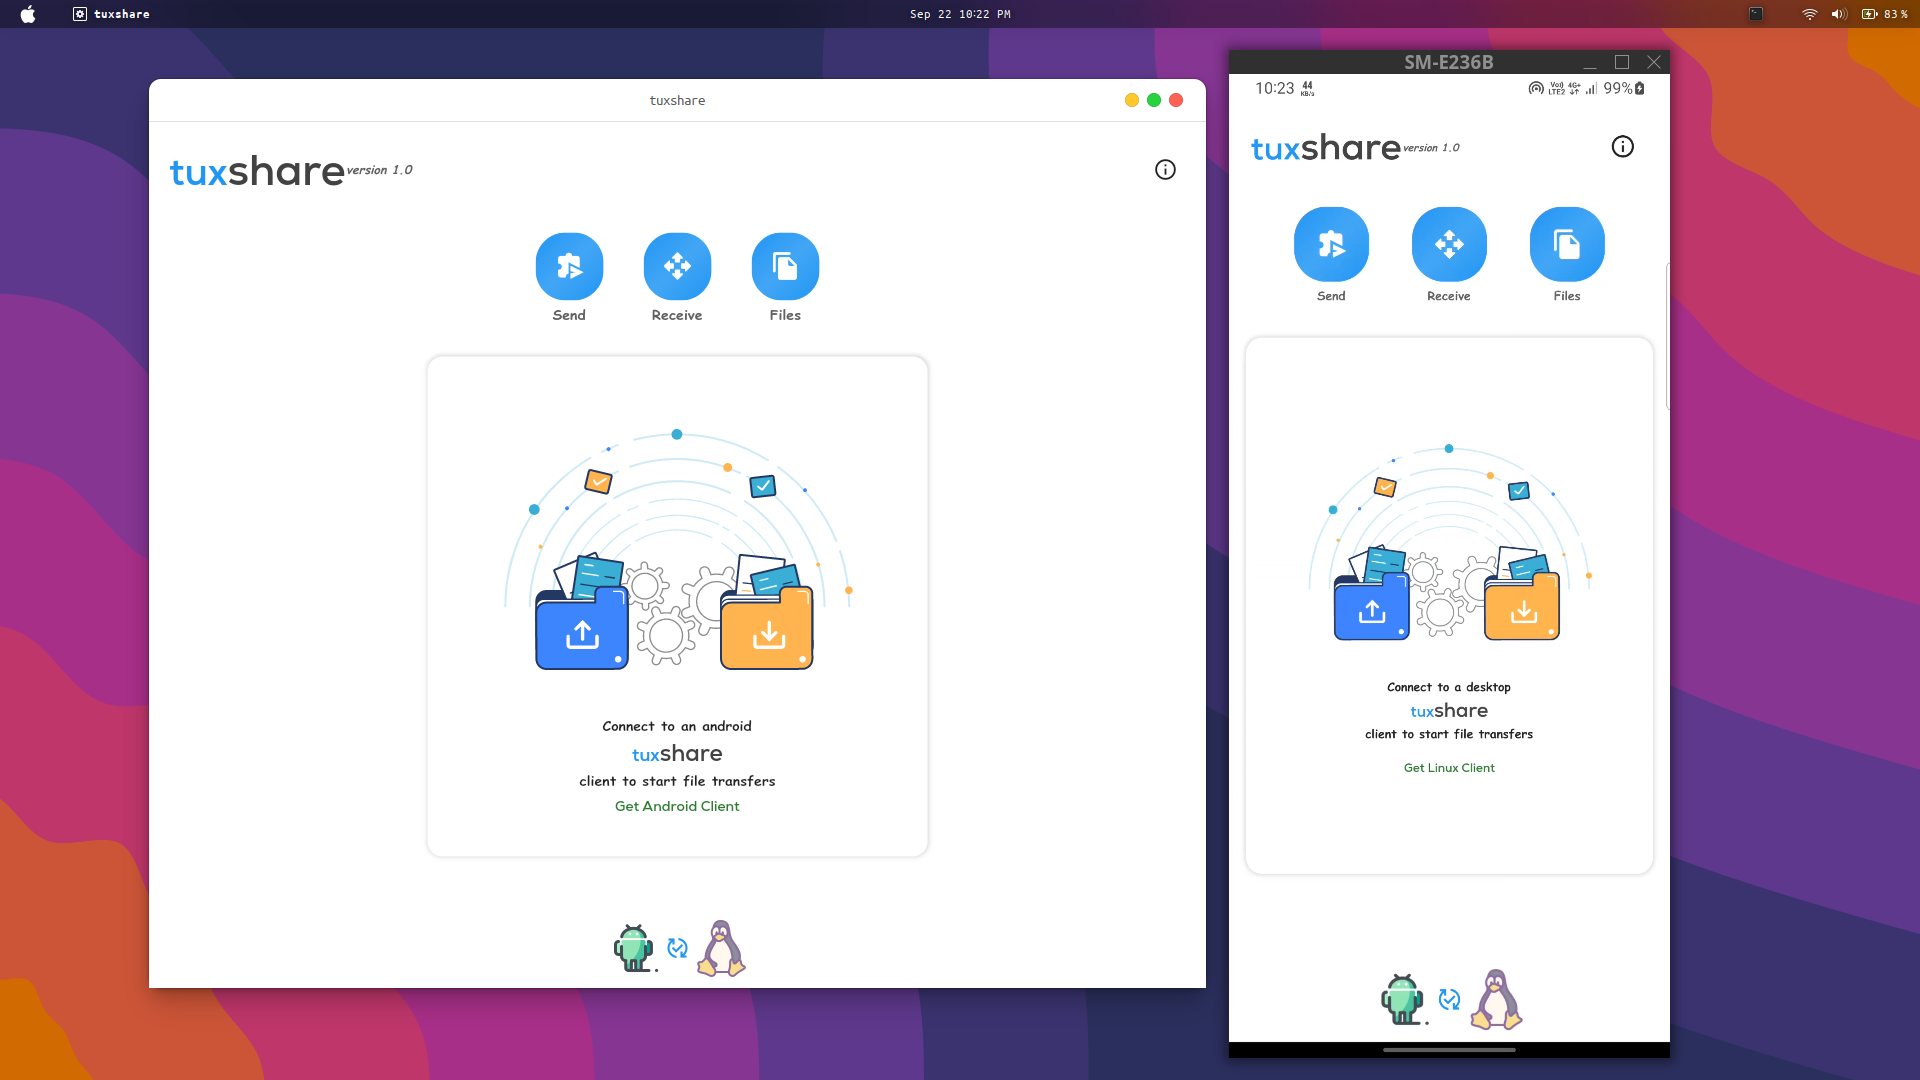
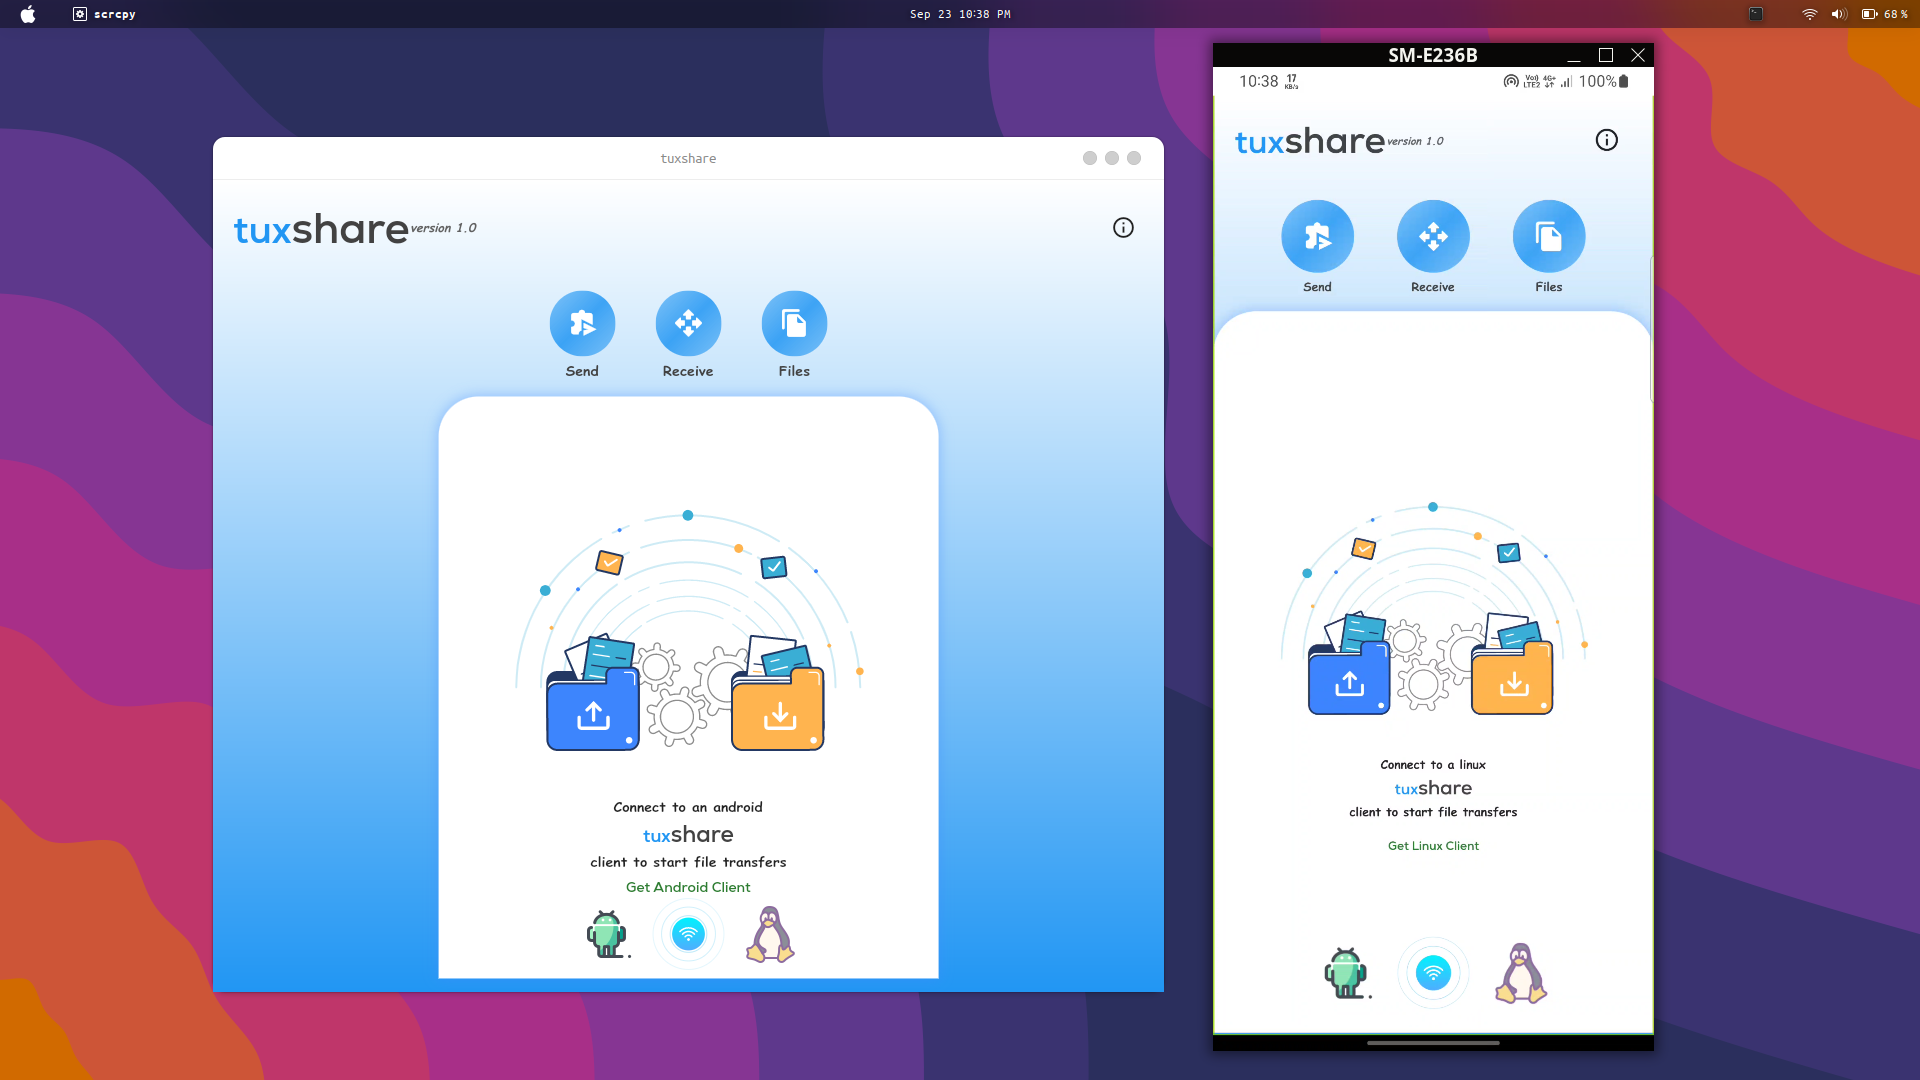
Refined UI!

diff --git a/lib/home_screen/transfer_panel.dart b/lib/home_screen/transfer_panel.dart
@@ -8,61 +8,62 @@ import 'package:tuxshare/universal_widgets/logotext.dart';
 class TransferPanel extends StatelessWidget{
   const TransferPanel({super.key});
 
-  @override
-  Widget build(BuildContext context) {
-    return Padding(
-      padding: const EdgeInsets.all(16.0),
-      child: Container(
-        width: 500,
-        height: 500,
-        decoration: BoxDecoration(
-          color: Colors.white,
-          borderRadius: BorderRadius.circular(15),
-          boxShadow: [
-            BoxShadow(
-              color: Colors.grey.withOpacity(0.4),
-              blurRadius: 3,
-              spreadRadius: 1,
-            ),
-          ],
+  Widget _buildTransferPanelView(){
+    return Column(
+      mainAxisAlignment: MainAxisAlignment.center,
+      children: [
+        Lottie.asset(
+          'assets/60064-file-transfer-loop-animation.json',
         ),
-        child: Center(
-          child: SingleChildScrollView(
-            child: Column(
-              mainAxisAlignment: MainAxisAlignment.center,
-              children: [
-                Lottie.asset(
-                  'assets/60064-file-transfer-loop-animation.json',
-                ),
-                Text(
-                  Platform.isLinux ? "Connect to an android" : "Connect to a desktop",
-                  style: const TextStyle(
-                    fontFamily: "ComicSansBold",
-                  ),
-                ),
-                const LogoText(size: 18),
-                const Text(
-                  "client to start file transfers",
-                  style: TextStyle(
-                    fontFamily: "ComicSansBold",
-                  ),
-                ),
-                TextButton(
-                  onPressed: () {},
-                  style: TextButton.styleFrom(
-                    foregroundColor: Colors.green.shade800,
-                  ),
-                  child: Text(
-                    Platform.isLinux ? "Get Android Client" : "Get Linux Client",
-                    style: const TextStyle(
-                      fontFamily: "NexaBold",
-                    ),
-                  ),
-                ),
-                const SizedBox(height: 10),
-              ],
+        Text(
+          Platform.isLinux ? "Connect to an android" : "Connect to a linux",
+          style: const TextStyle(
+            fontFamily: "ComicSansBold",
+          ),
+        ),
+        const LogoText(size: 18),
+        const Text(
+          "client to start file transfers",
+          style: TextStyle(
+            fontFamily: "ComicSansBold",
+          ),
+        ),
+        TextButton(
+          onPressed: () {},
+          style: TextButton.styleFrom(
+            foregroundColor: Colors.green.shade800,
+          ),
+          child: Text(
+            Platform.isLinux ? "Get Android Client" : "Get Linux Client",
+            style: const TextStyle(
+              fontFamily: "NexaBold",
             ),
           ),
+        ),
+        const SizedBox(height: 10),
+      ],
+    );
+  }
+
+  @override
+  Widget build(BuildContext context) {
+    return Container(
+      width: 500,
+      height: MediaQuery.of(context).size.height - 230,
+      decoration: BoxDecoration(
+        color: Colors.white,
+        borderRadius: const BorderRadius.only(topRight: Radius.circular(40), topLeft: Radius.circular(40)),
+        boxShadow: [
+          BoxShadow(
+            color: Colors.blueAccent.withOpacity(0.4),
+            blurRadius: 10,
+            spreadRadius: 1,
+          ),
+        ],
+      ),
+      child: Center(
+        child: SingleChildScrollView(
+          child: _buildTransferPanelView(),
         ),
       ),
     );

diff --git a/lib/home_screen/transfer_button.dart b/lib/home_screen/transfer_button.dart
@@ -1,38 +1,40 @@
 import 'package:flutter/material.dart';
 
 class TransferButton extends StatelessWidget {
-  const TransferButton({super.key, required this.iconData, required this.onPressed, required this.color, required this.text});
+  const TransferButton({super.key, required this.iconData, required this.onPressed, required this.color, required this.text, required this.enabled});
 
   final String text;
   final IconData iconData;
   final VoidCallback onPressed;
   final Color color;
+  final bool enabled;
 
   @override
   Widget build(BuildContext context) {
+    Color color = this.color;
+    if(!enabled){
+      color = Colors.blueGrey.withOpacity(0.5);
+    }
     return Column(
       children: [
         ClipRRect(
-          borderRadius: BorderRadius.circular(30),
+          borderRadius: BorderRadius.circular(40),
           child: Container(
             decoration: BoxDecoration(
               gradient: LinearGradient(colors: [color, color.withOpacity(0.85), color], begin: Alignment.topLeft, end: Alignment.bottomRight),
             ),
-            child: Padding(
-              padding: const EdgeInsets.all(1.0),
-              child: Material(
-                color: Colors.transparent,
-                child: Padding(
-                  padding: const EdgeInsets.all(10.0),
-                  child: IconButton(
-                    onPressed: onPressed,
-                    icon: Icon(
-                      iconData,
-                      color: Colors.white,
-                    ),
-                    iconSize: 30,
-                    splashColor: Colors.white,
+            child: Material(
+              color: Colors.transparent,
+              child: Padding(
+                padding: const EdgeInsets.all(10.0),
+                child: IconButton(
+                  onPressed: enabled ? onPressed : () {},
+                  icon: Icon(
+                    iconData,
+                    color: Colors.white,
                   ),
+                  iconSize: 30,
+                  splashColor: Colors.white,
                 ),
               ),
             ),
@@ -43,7 +45,7 @@ class TransferButton extends StatelessWidget {
           text,
           style: TextStyle(
             fontFamily: "ComicSansBold",
-            color: Colors.grey.shade700,
+            color: Colors.grey.shade800,
           ),
         )
       ],

diff --git a/lib/home_screen/home_screen.dart b/lib/home_screen/home_screen.dart
@@ -1,8 +1,11 @@
 
 import 'package:flutter/material.dart';
+import 'package:lottie/lottie.dart';
 import 'package:tuxshare/home_screen/adaptive_app_bar.dart';
 import 'package:tuxshare/home_screen/transfer_panel.dart';
 import 'package:tuxshare/io/resource_provider.dart';
+
+import '../io/connection.dart';
 
 class HomeScreen extends StatelessWidget{
   const HomeScreen({super.key});
@@ -10,7 +13,9 @@ class HomeScreen extends StatelessWidget{
   @override
   Widget build(BuildContext context) {
     return Container(
-      color: Colors.white,
+      decoration: const BoxDecoration(
+        gradient: LinearGradient(colors: [Colors.white, Colors.blue], begin: Alignment.topCenter, end: Alignment.bottomCenter),
+      ),
       child: Stack(
         children: [
           SingleChildScrollView(
@@ -28,19 +33,17 @@ class HomeScreen extends StatelessWidget{
               padding: const EdgeInsets.all(8.0),
               child: Row(
                 mainAxisAlignment: MainAxisAlignment.center,
-                children: const [
-                  Image(
+                children: [
+                  const Image(
                     image: android,
                     width: 64,
                     height: 64,
                   ),
-                  Icon(
-                    // Icons.not_interested_outlined,
-                    // color: Colors.grey,
-                    Icons.published_with_changes_outlined,
-                    color: Colors.blue,
-                  ),
-                  Image(
+                  if(!connected)
+                    Lottie.asset('assets/93235-no-connection.json', width: 60),
+                  if(connected)
+                    Lottie.asset('assets/114586-wifi-connecting.json', width: 100),
+                  const Image(
                     image: tux,
                     width: 64,
                     height: 64,

diff --git a/lib/home_screen/adaptive_app_bar.dart b/lib/home_screen/adaptive_app_bar.dart
@@ -1,6 +1,8 @@
 
 import 'package:flutter/material.dart';
+import 'package:lottie/lottie.dart';
 import 'package:tuxshare/home_screen/transfer_button.dart';
+import 'package:tuxshare/io/connection.dart';
 import 'package:tuxshare/universal_widgets/logotext.dart';
 import 'package:tuxshare/universal_widgets/tux_icon_button.dart';
 
@@ -49,20 +51,23 @@ class AdaptiveAppBar extends StatelessWidget{
               TransferButton(
                 onPressed: () {},
                 iconData: Icons.send_time_extension_rounded,
-                color: Colors.blue,
+                color: Colors.blue.withOpacity(.5),
                 text: "Send",
+                enabled: connected,
               ),
               TransferButton(
                 onPressed: () {},
                 iconData: Icons.open_with_rounded,
-                color: Colors.blue,
+                color: Colors.blue.withOpacity(.5),
                 text: "Receive",
+                enabled: connected,
               ),
               TransferButton(
                 onPressed: () {},
                 iconData: Icons.file_copy_rounded,
-                color: Colors.blue,
+                color: Colors.blue.withOpacity(.5),
                 text: "Files",
+                enabled: connected,
               ),
             ],
           ),

diff --git a/lib/io/connection.dart b/lib/io/connection.dart
@@ -1,0 +1,4 @@
+
+bool connected = true;
+
+
